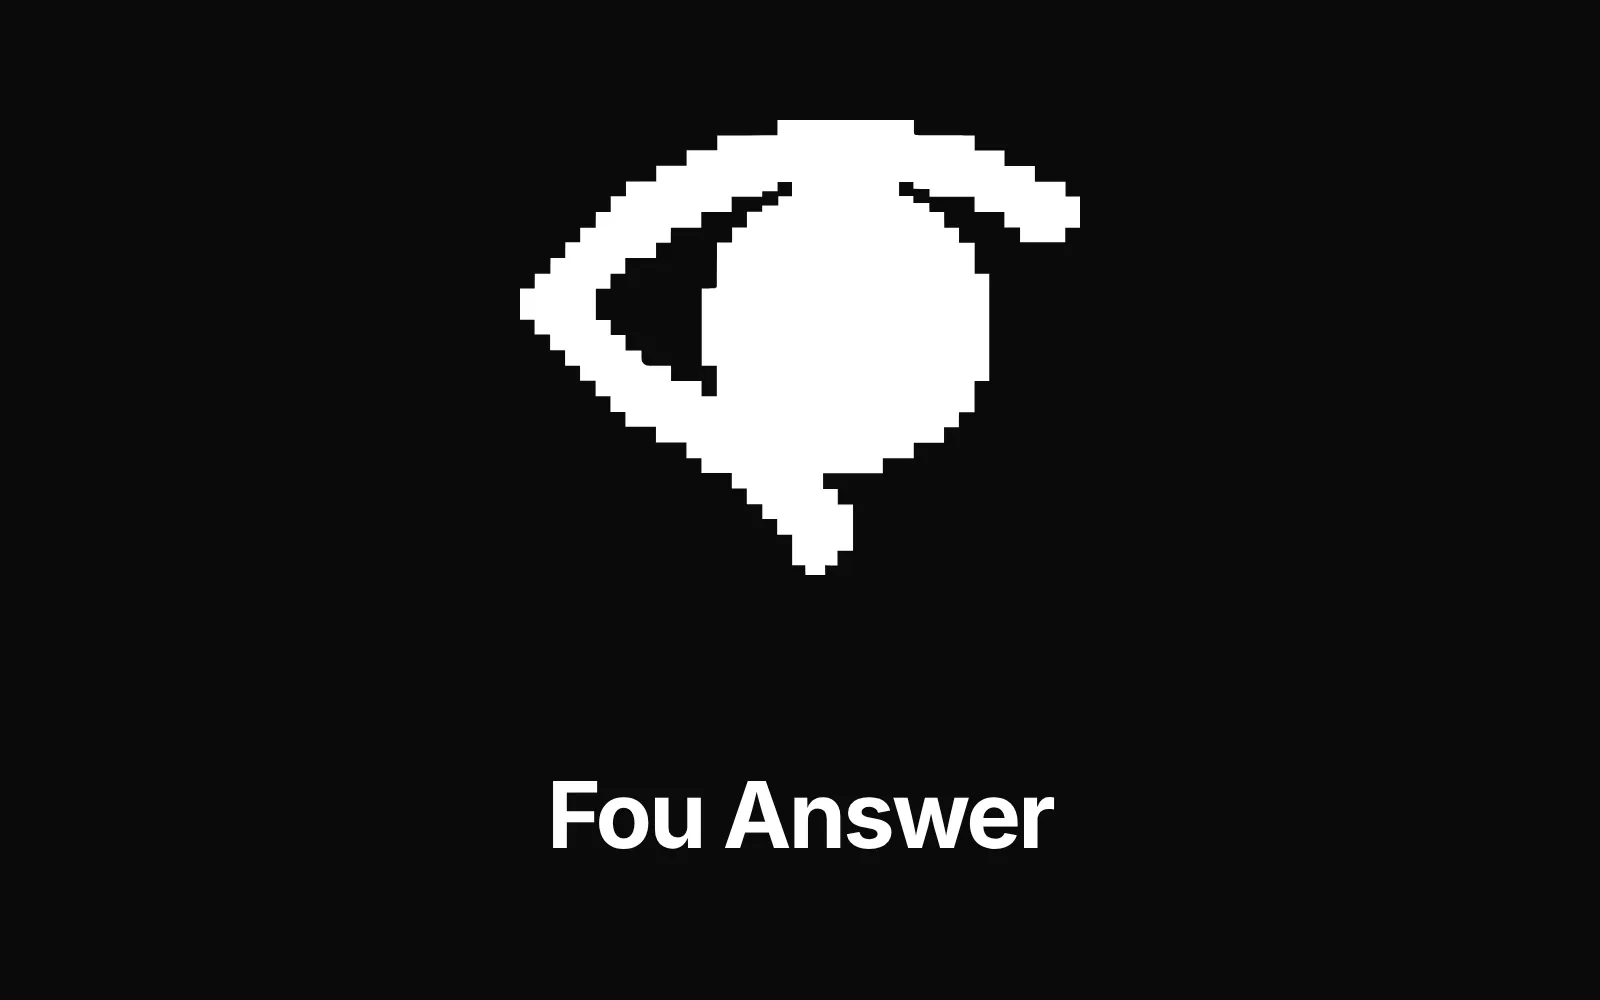
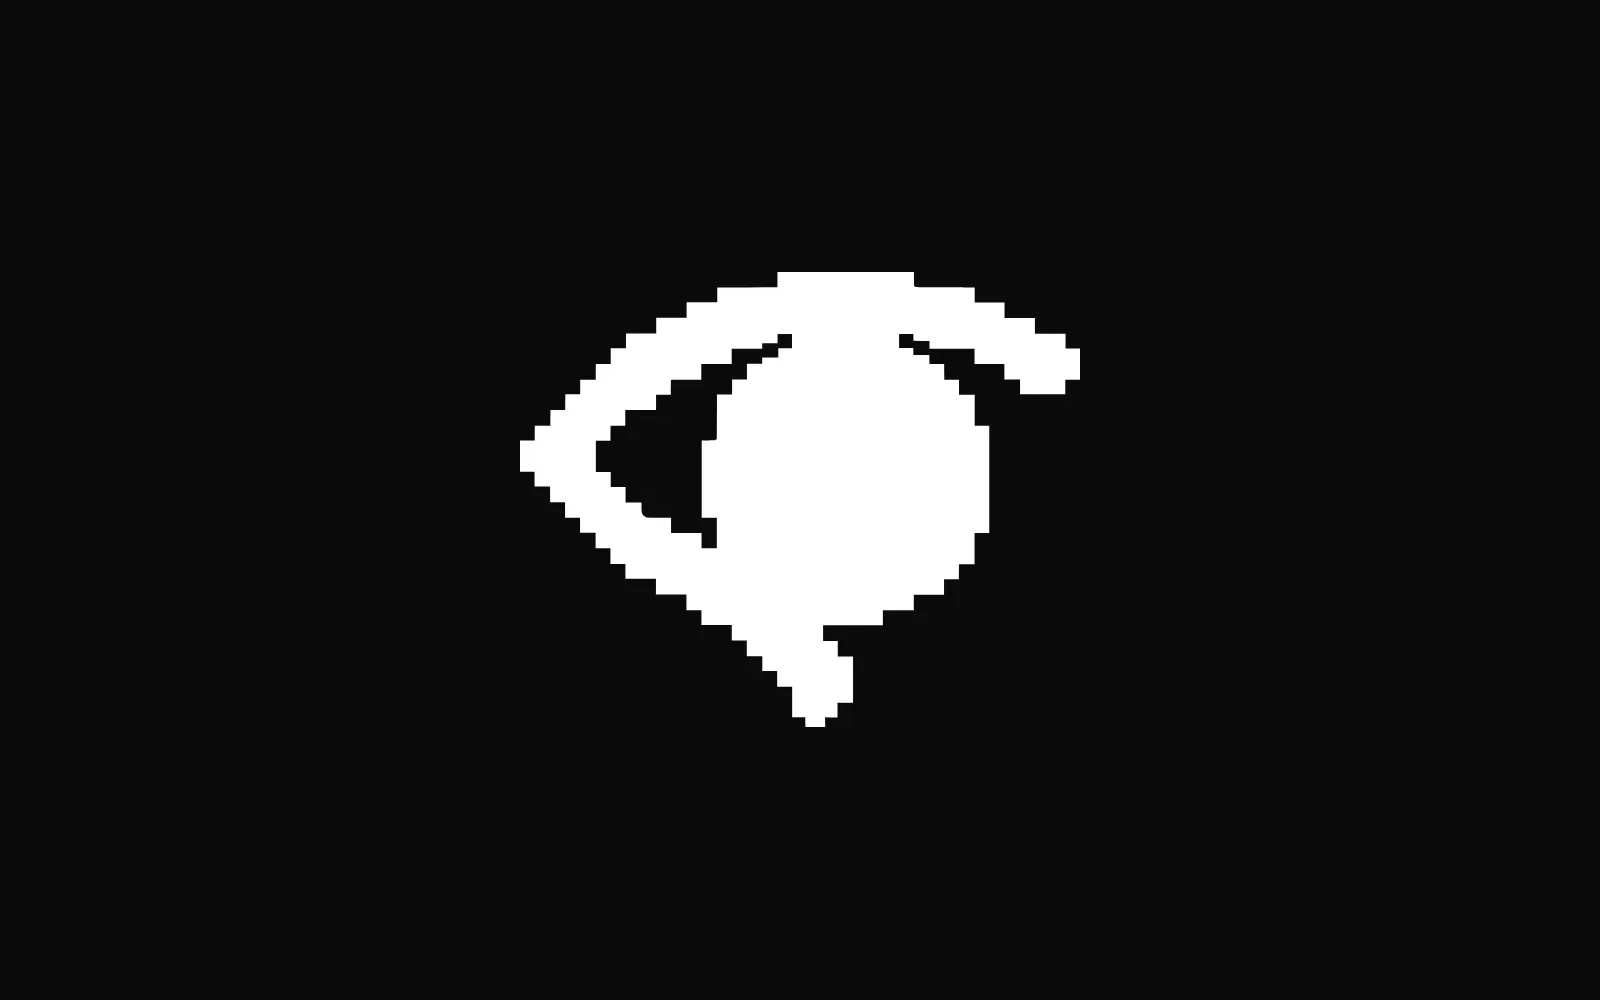
Site audit: all headings in Agatho, missing work-card lines, Fou Answer eye thumbnail (#64)
Price tiers, FAQ questions, work-list rows, extras heading, chart title and client group headings in Agatho. Outcome lines for Fou Answer and New York General Group. Fou Answer work card shows just the eye.

Changed region(s): [[0.3125, 0.093, 0.6875, 0.744], [0.3438, 0.775, 0.6562, 0.868]]

diff --git a/src/styles/studio.css b/src/styles/studio.css
@@ -77,7 +77,7 @@ html { scroll-behavior: smooth; }
 .acc { position: relative; margin-top: var(--sp-head); padding: 4px var(--sp-card); border-radius: var(--radius); }
 /* Lines only between rows that show, so a filtered list never starts with one (Josh, 5 Nov). */
 .acc__row:not([hidden]) ~ .acc__row:not([hidden]) { border-top: 1px solid color-mix(in srgb, var(--ink) 16%, transparent); }
-.acc__btn { display: flex; width: 100%; justify-content: space-between; align-items: center; gap: 24px; padding: 26px 0; border: 0; background: none; color: inherit; font: 600 28px/1.2 var(--text); letter-spacing: -0.02em; text-align: left; cursor: pointer; }
+.acc__btn { display: flex; width: 100%; justify-content: space-between; align-items: center; gap: 24px; padding: 26px 0; border: 0; background: none; color: inherit; font: 500 30px/1.15 var(--display); letter-spacing: -0.01em; text-align: left; cursor: pointer; }
 .acc__btn:focus-visible { outline: 2px solid var(--ink); outline-offset: 2px; border-radius: 8px; }
 .acc__from { margin-left: auto; font-size: 17px; font-weight: 600; letter-spacing: -0.01em; color: var(--ink-2); white-space: nowrap; font-variant-numeric: tabular-nums; transition: opacity 200ms ease-out; }
 [aria-expanded='true'] > .acc__from { opacity: 0; } /* the large price inside takes over */
@@ -94,7 +94,7 @@ html { scroll-behavior: smooth; }
 .acc__price span { display: block; font-size: 17px; font-weight: 400; letter-spacing: 0; color: var(--ink-2); }
 .acc__badge { margin-left: 12px; vertical-align: 0.2em; }
 .acc__go { justify-self: end; }
-.acc--q .acc__btn { font-size: 22px; }
+.acc--q .acc__btn { font-size: 24px; }
 .acc--q .acc__body { grid-template-columns: 1fr; }
 
 /* A centred call-out, set like the hero plate (Need Something Else?). */
@@ -138,7 +138,7 @@ html { scroll-behavior: smooth; }
   .facts dd { font-size: 17px; }
   .acc { padding: 2px var(--sp-card); }
   .acc__btn { font-size: 21px; padding: 20px 0; gap: 14px; }
-  .acc--q .acc__btn { font-size: 18px; }
+  .acc--q .acc__btn { font-size: 20px; }
   .acc__from { font-size: 14px; }
   .acc__body { grid-template-columns: 1fr; gap: 14px; padding-bottom: 24px; }
   .acc__text { grid-row: auto; font-size: 17px; }
